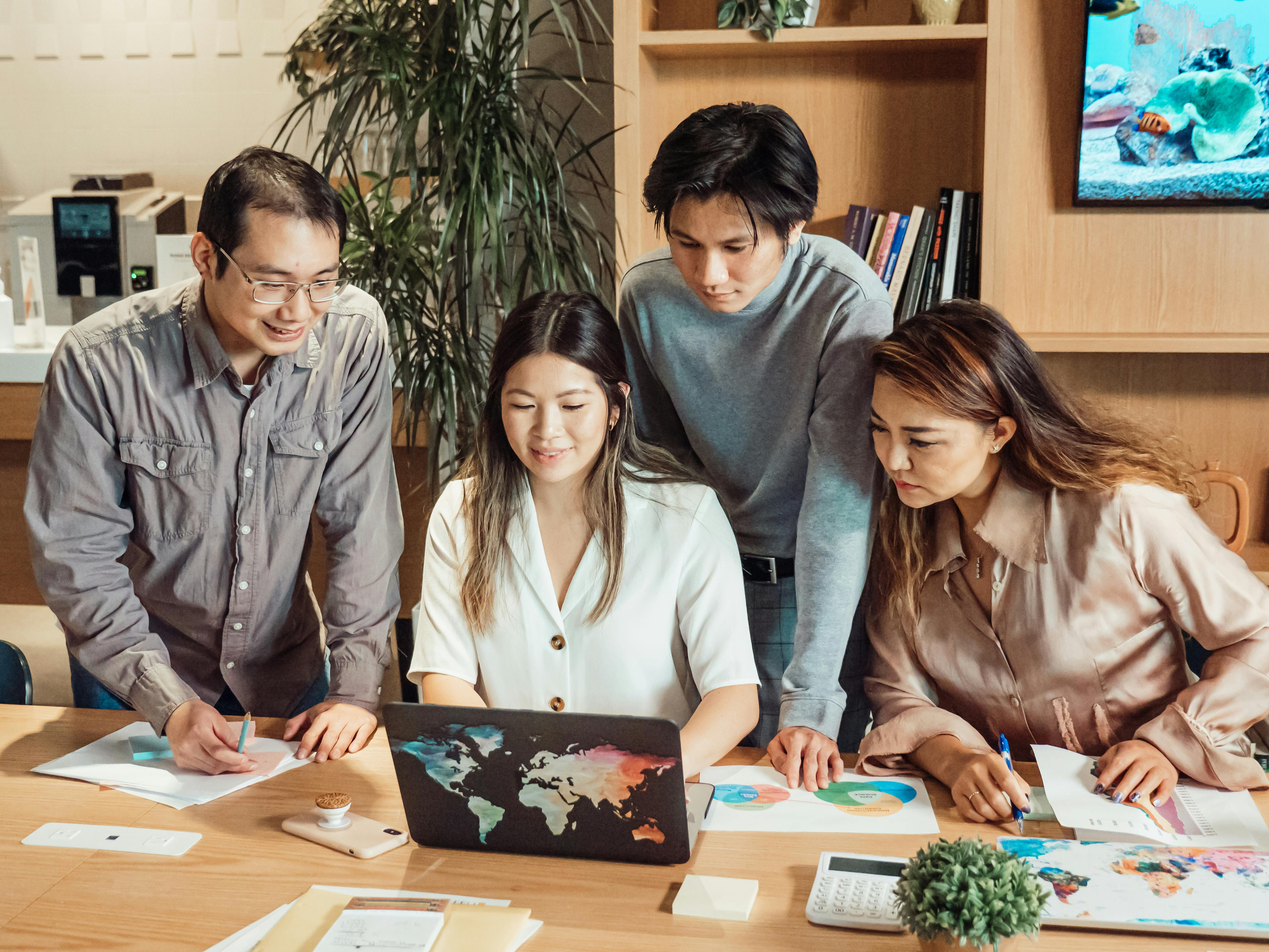
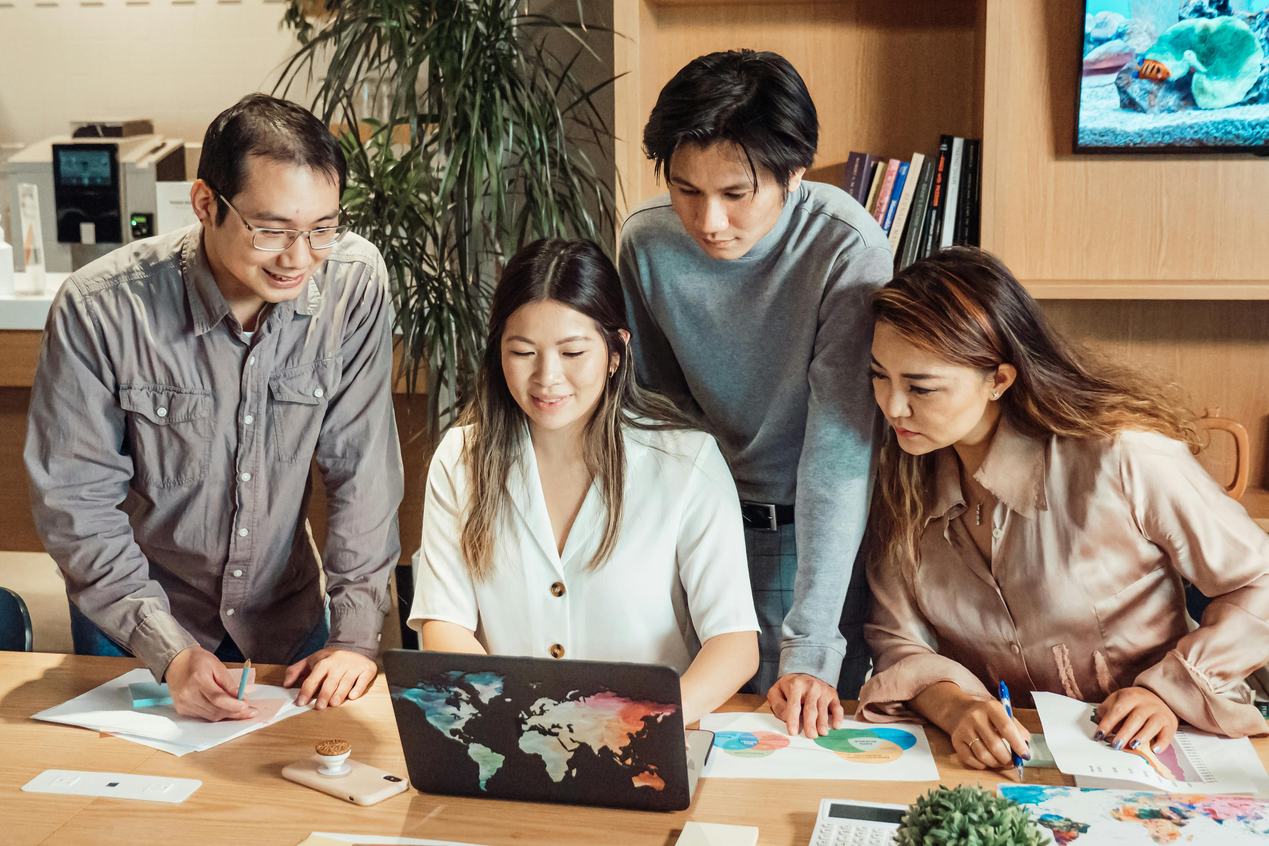
rfefert

diff --git a/team.html b/team.html
@@ -436,7 +436,7 @@
              </div>
              <div class="col-lg-6 col-12">
                 <div class="header-image d-none d-lg-block">
-                   <div class="image">
+                   <div class="image h-75">
                       <img
                      
                          src="./assets/images/team.jpg"
